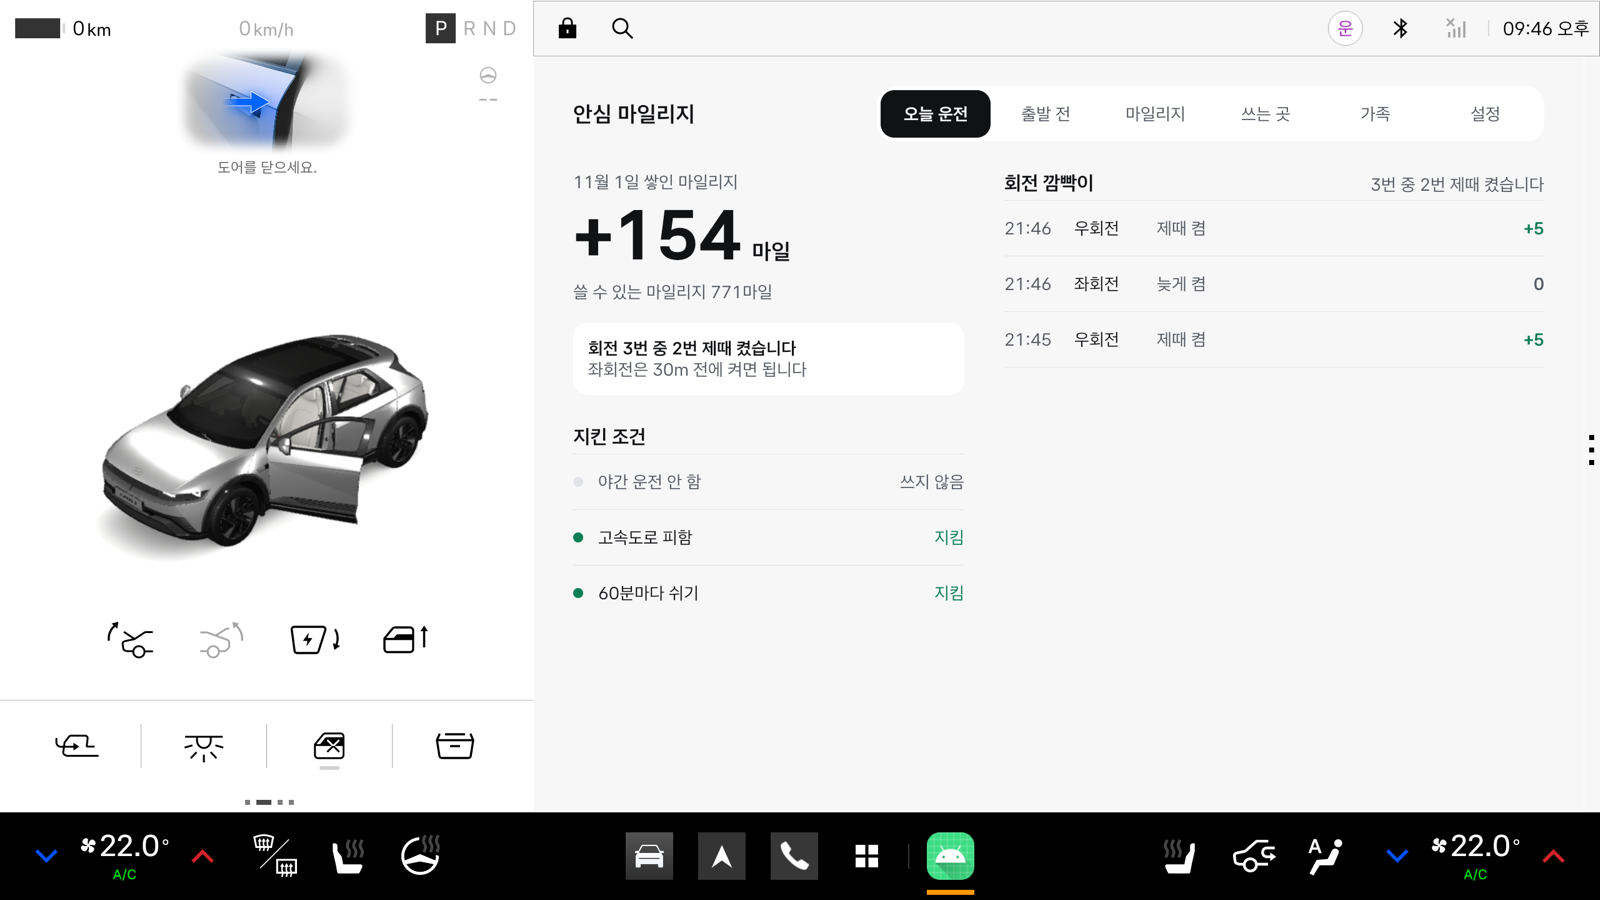
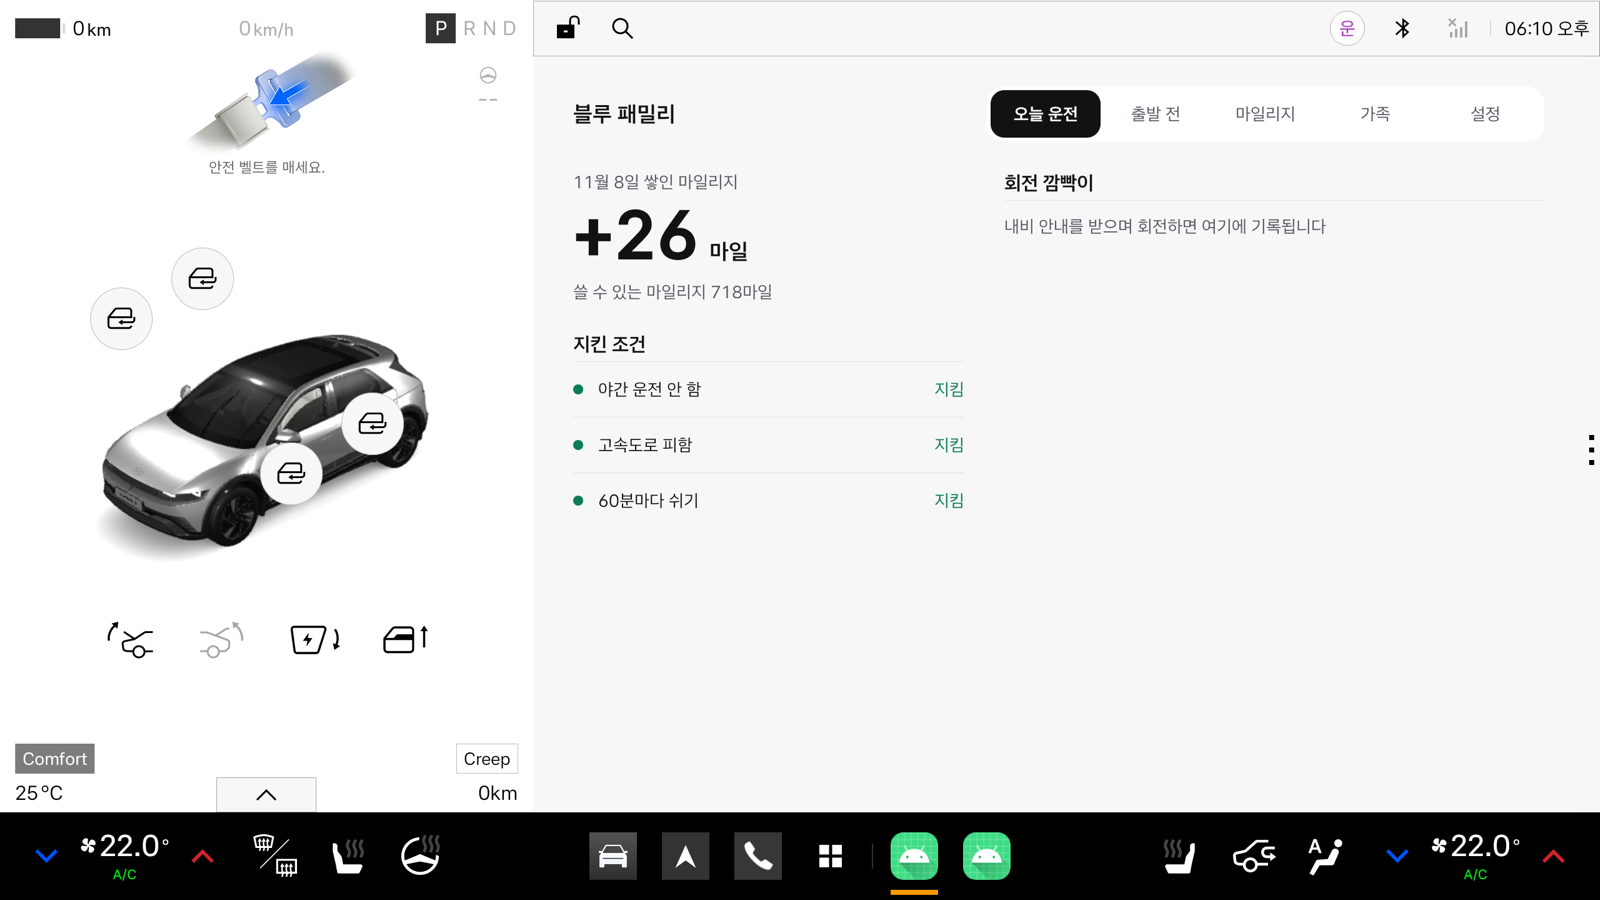
README와 화면 캡처를 블루 패밀리로 수정

diff --git a/README.md b/README.md
@@ -1,6 +1,6 @@
 <div align="center">
 
-# 한가족 마일리지
+# 블루 패밀리
 
 **현대차그룹 생태계의 첫 가족결합, 안전운전 마일리지**
 
@@ -14,7 +14,7 @@
 ![Tests](https://img.shields.io/badge/unit_tests-27_passed-0B7D54?style=flat-square)
 ![Offline](https://img.shields.io/badge/서버-없이_동작-555A62?style=flat-square)
 
-[APK 받기](apk/Drivoice_한가족마일리지_release.apk) | [시연 영상](.github/readme/demo.mp4) | [설치와 실행](#설치와-실행) | [시연 순서](#시연-순서)
+[APK 받기](apk/Drivoice_블루패밀리_release.apk) | [시연 영상](.github/readme/demo.mp4) | [설치와 실행](#설치와-실행) | [시연 순서](#시연-순서)
 
 <br>
 
@@ -28,7 +28,7 @@
 
 ## 요약
 
-한가족 마일리지는 통신사의 가족결합을 자동차에 옮긴 Pleos Connect 앱입니다. 깜빡이를 제때 켜고, 과속과 급제동 없이 달리고, 가족과 정한 운전 약속을 지키면 가족 지갑에 마일리지가 쌓입니다. 가족이 결합한 현대차, 기아 차가 한 대 늘 때마다 모든 적립에 10%가 더 붙고(최대 30%), 쌓인 마일리지는 다음 차 값, 현대카드 M포인트, 블루멤버스, 블루핸즈, E-pit 충전에 씁니다.
+블루 패밀리는 통신사의 가족결합을 자동차에 옮긴 Pleos Connect 앱입니다. 이름은 블루멤버스, 블루링크, 블루핸즈로 이어지는 현대차그룹의 '블루' 서비스 줄기에 가족을 더한다는 뜻입니다. 깜빡이를 제때 켜고, 과속과 급제동 없이 달리고, 가족과 정한 운전 약속을 지키면 가족 지갑에 마일리지가 쌓입니다. 가족이 결합한 현대차, 기아 차가 한 대 늘 때마다 모든 적립에 10%가 더 붙고(최대 30%), 쌓인 마일리지는 다음 차 값, 현대카드 M포인트, 블루멤버스, 블루핸즈, E-pit 충전에 씁니다.
 
 가족은 서로의 이번 주 안전 점수와 감점 횟수를 봅니다. 위치와 경로, 언제 어디서 감점됐는지는 차 밖으로 나가지 않습니다.
 
@@ -59,7 +59,7 @@
 | 위험운전과 사고 | 사고 운전자가 무사고 운전자보다 위험운전 약 1.5배 | [정책브리핑 2022-05-20](https://www.korea.kr/news/policyNewsView.do?newsId=148901825) |
 | 부모와 자녀의 운전 | 자녀의 위험운전 빈도는 부모의 빈도와 함께 움직이고, 기록을 가족에게 돌려주면 줄어듦 (166가구, 12개월) | [Taubman-Ben-Ari 외 2014](https://cris.iucc.ac.il/en/publications/the-contribution-of-parents-driving-behavior-family-climate-for-r/) |
 
-한가족 마일리지는 그 고리를 운전석 안에 만듭니다. 결합 혜택의 조건을 요금이 아니라 안전 운전에 두기 때문에, 가족이 포인트를 더 모으려 할수록 가족 모두의 운전이 안전해집니다.
+블루 패밀리는 그 고리를 운전석 안에 만듭니다. 결합 혜택의 조건을 요금이 아니라 안전 운전에 두기 때문에, 가족이 포인트를 더 모으려 할수록 가족 모두의 운전이 안전해집니다.
 
 <br>
 
@@ -211,20 +211,20 @@ Pleos 디자인 가이드의 값을 그대로 토큰으로 옮겼습니다(`ui/T
 | 항목 | 값 |
 |---|---|
 | 에뮬레이터 | Pleos Connect v2.1.0 (Android 14, API 34, 2560×1440) |
-| APK | [`apk/Drivoice_한가족마일리지_release.apk`](apk/Drivoice_한가족마일리지_release.apk) (release 빌드, 40MB). [Releases](https://github.com/wjdtkdgns777/ansim-mileage-private/releases/latest)에도 같은 파일이 있습니다 |
+| APK | [`apk/Drivoice_블루패밀리_release.apk`](apk/Drivoice_블루패밀리_release.apk) (release 빌드, 40MB). [Releases](https://github.com/wjdtkdgns777/blue-family-private/releases/latest)에도 같은 파일이 있습니다 |
 | 차량 값 조작 | Pleos Connect Virtual Console (`http://127.0.0.1:8088/`) |
 
 ### APK 설치
 
 ```bash
-adb install -r apk/Drivoice_한가족마일리지_release.apk
+adb install -r apk/Drivoice_블루패밀리_release.apk
 ```
 
 ```bash
 adb forward tcp:8088 tcp:8088
 ```
 
-앱 서랍에서 한가족 마일리지를 열고 "동의하고 시작"을 누릅니다. 이어서 뜨는 차속(위치 그룹)과 마이크 권한을 허용합니다. 차량 전용 앱(`android.hardware.type.automotive`)이라 휴대폰 에뮬레이터에는 설치되지 않습니다.
+앱 서랍에서 블루 패밀리를 열고 "동의하고 시작"을 누릅니다. 이어서 뜨는 차속(위치 그룹)과 마이크 권한을 허용합니다. 차량 전용 앱(`android.hardware.type.automotive`)이라 휴대폰 에뮬레이터에는 설치되지 않습니다.
 
 제출한 APK는 release 빌드입니다. 에뮬레이터 내비는 실제로 움직이지 않습니다. 그래서 회전 안내를 재생하는 시연 도구를 release 빌드의 설정 탭에도 넣었습니다. 서명은 Android 기본 디버그 키로 했습니다.
 
